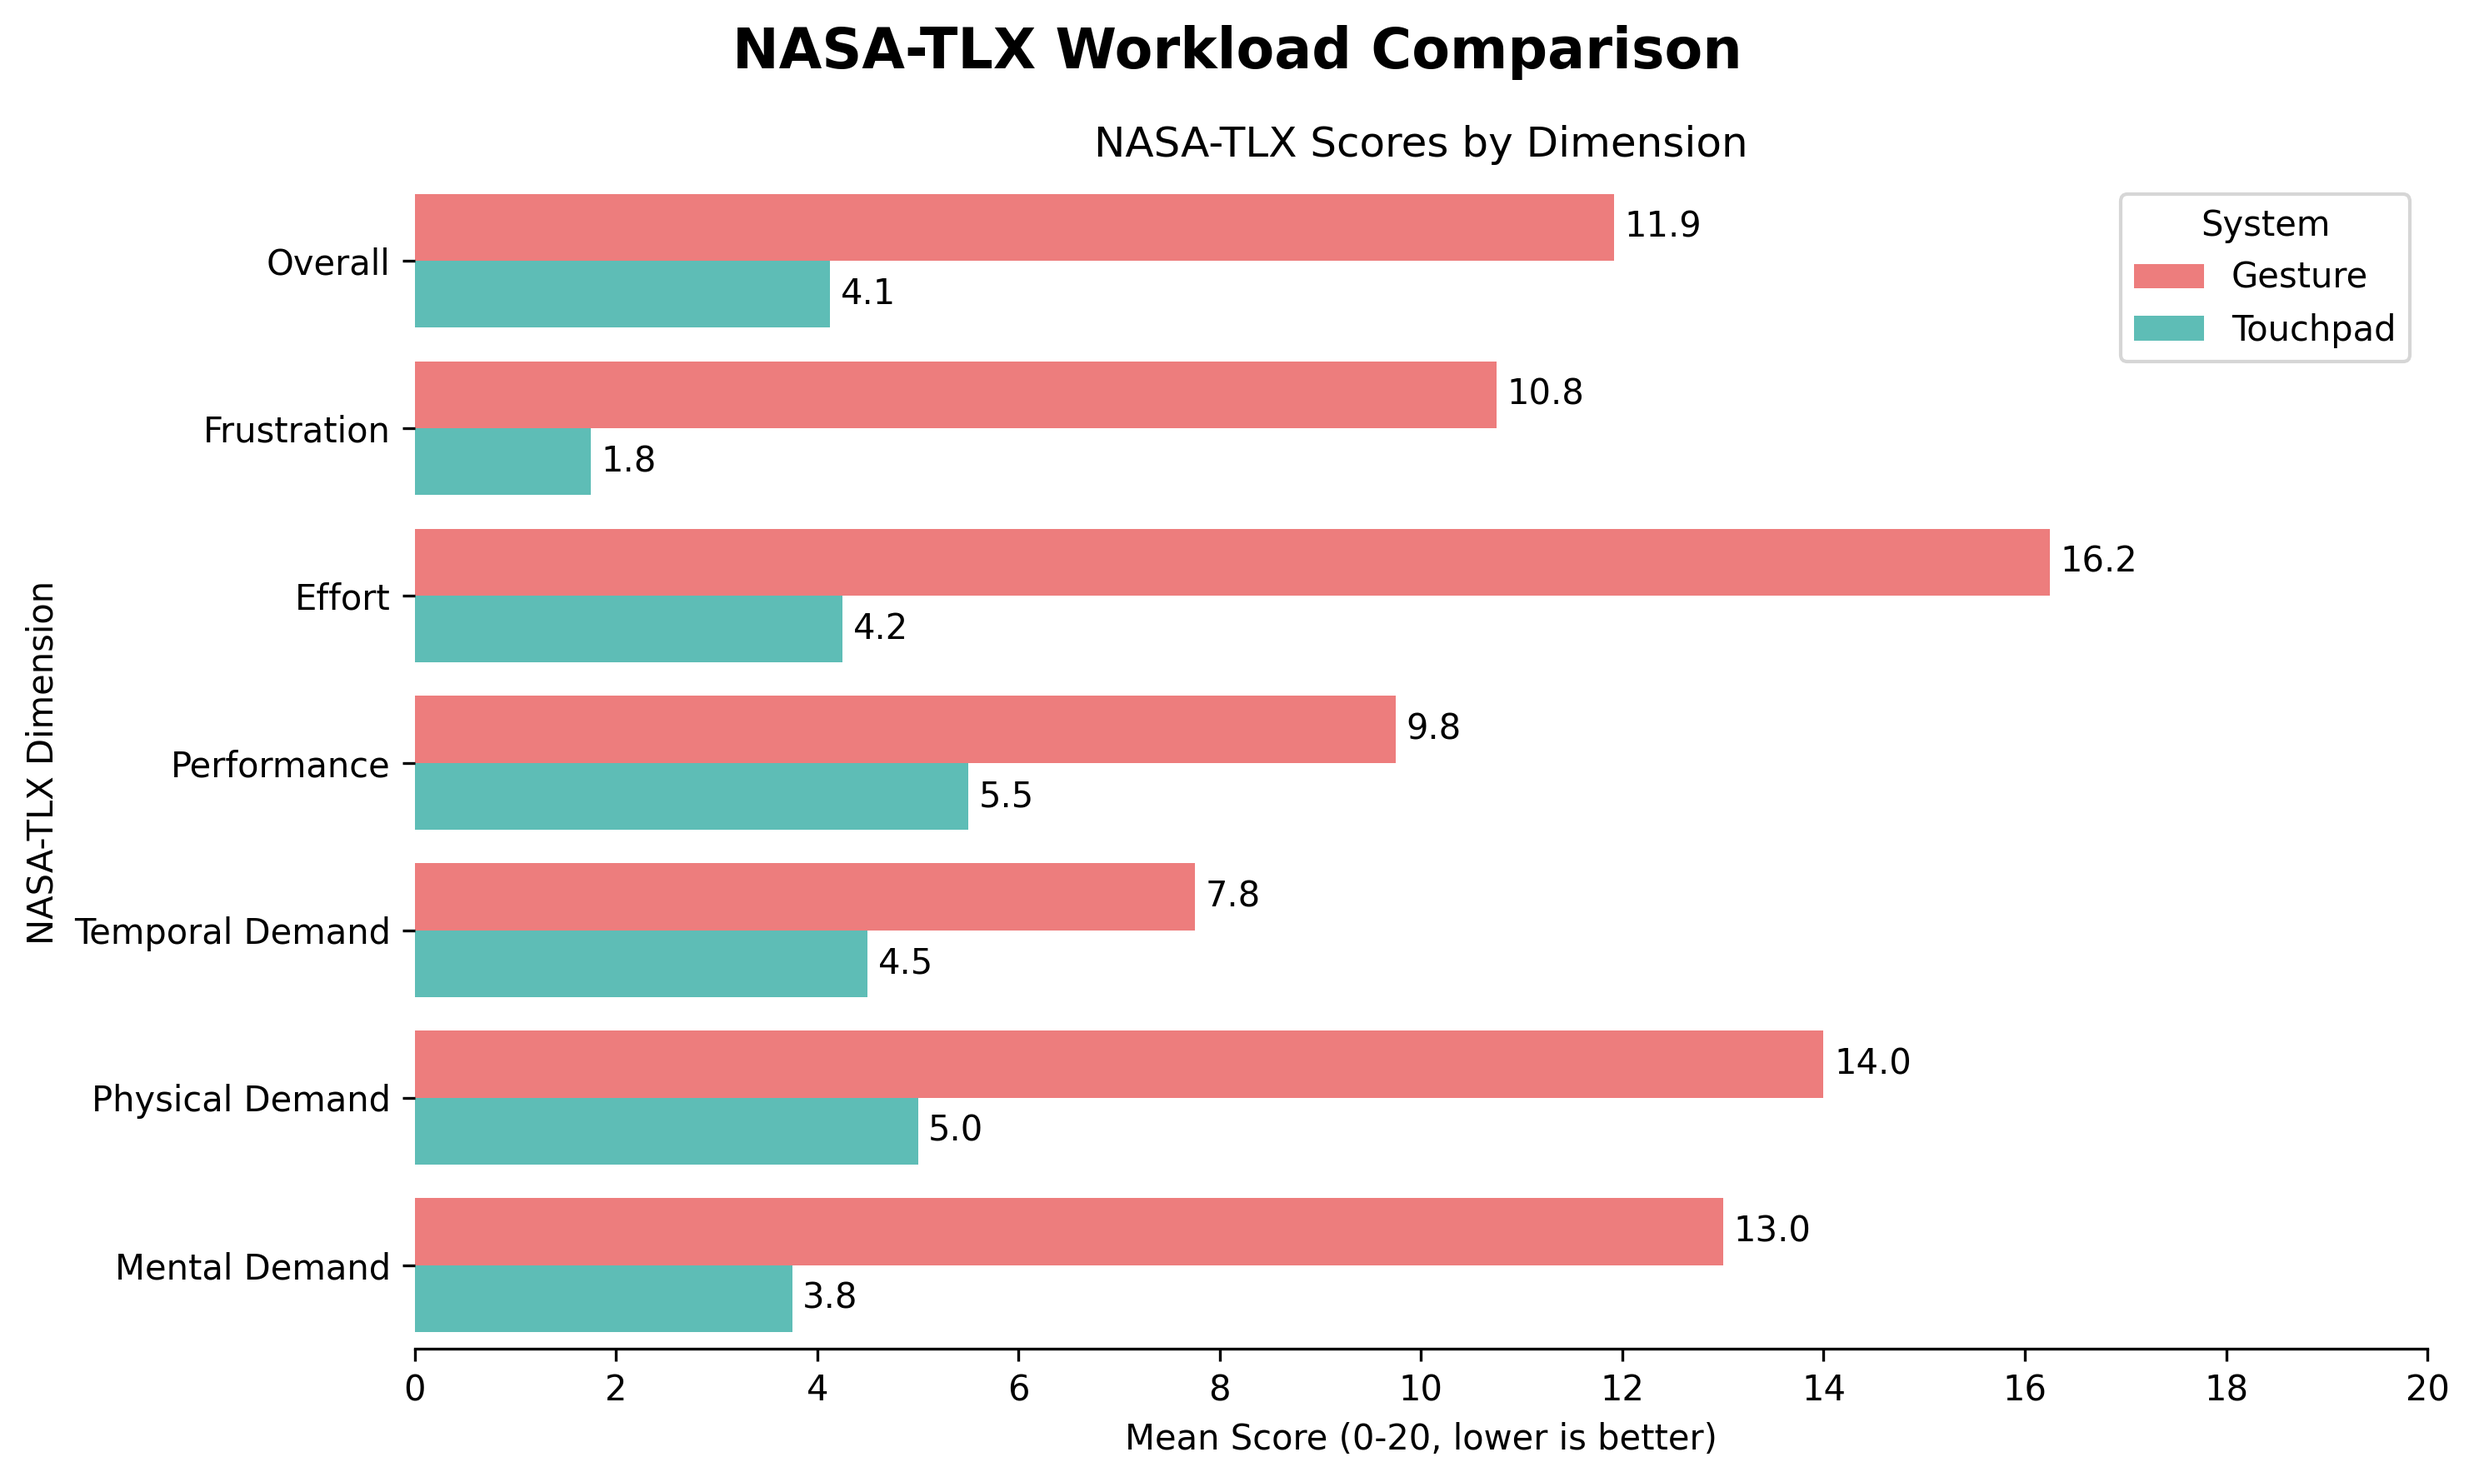
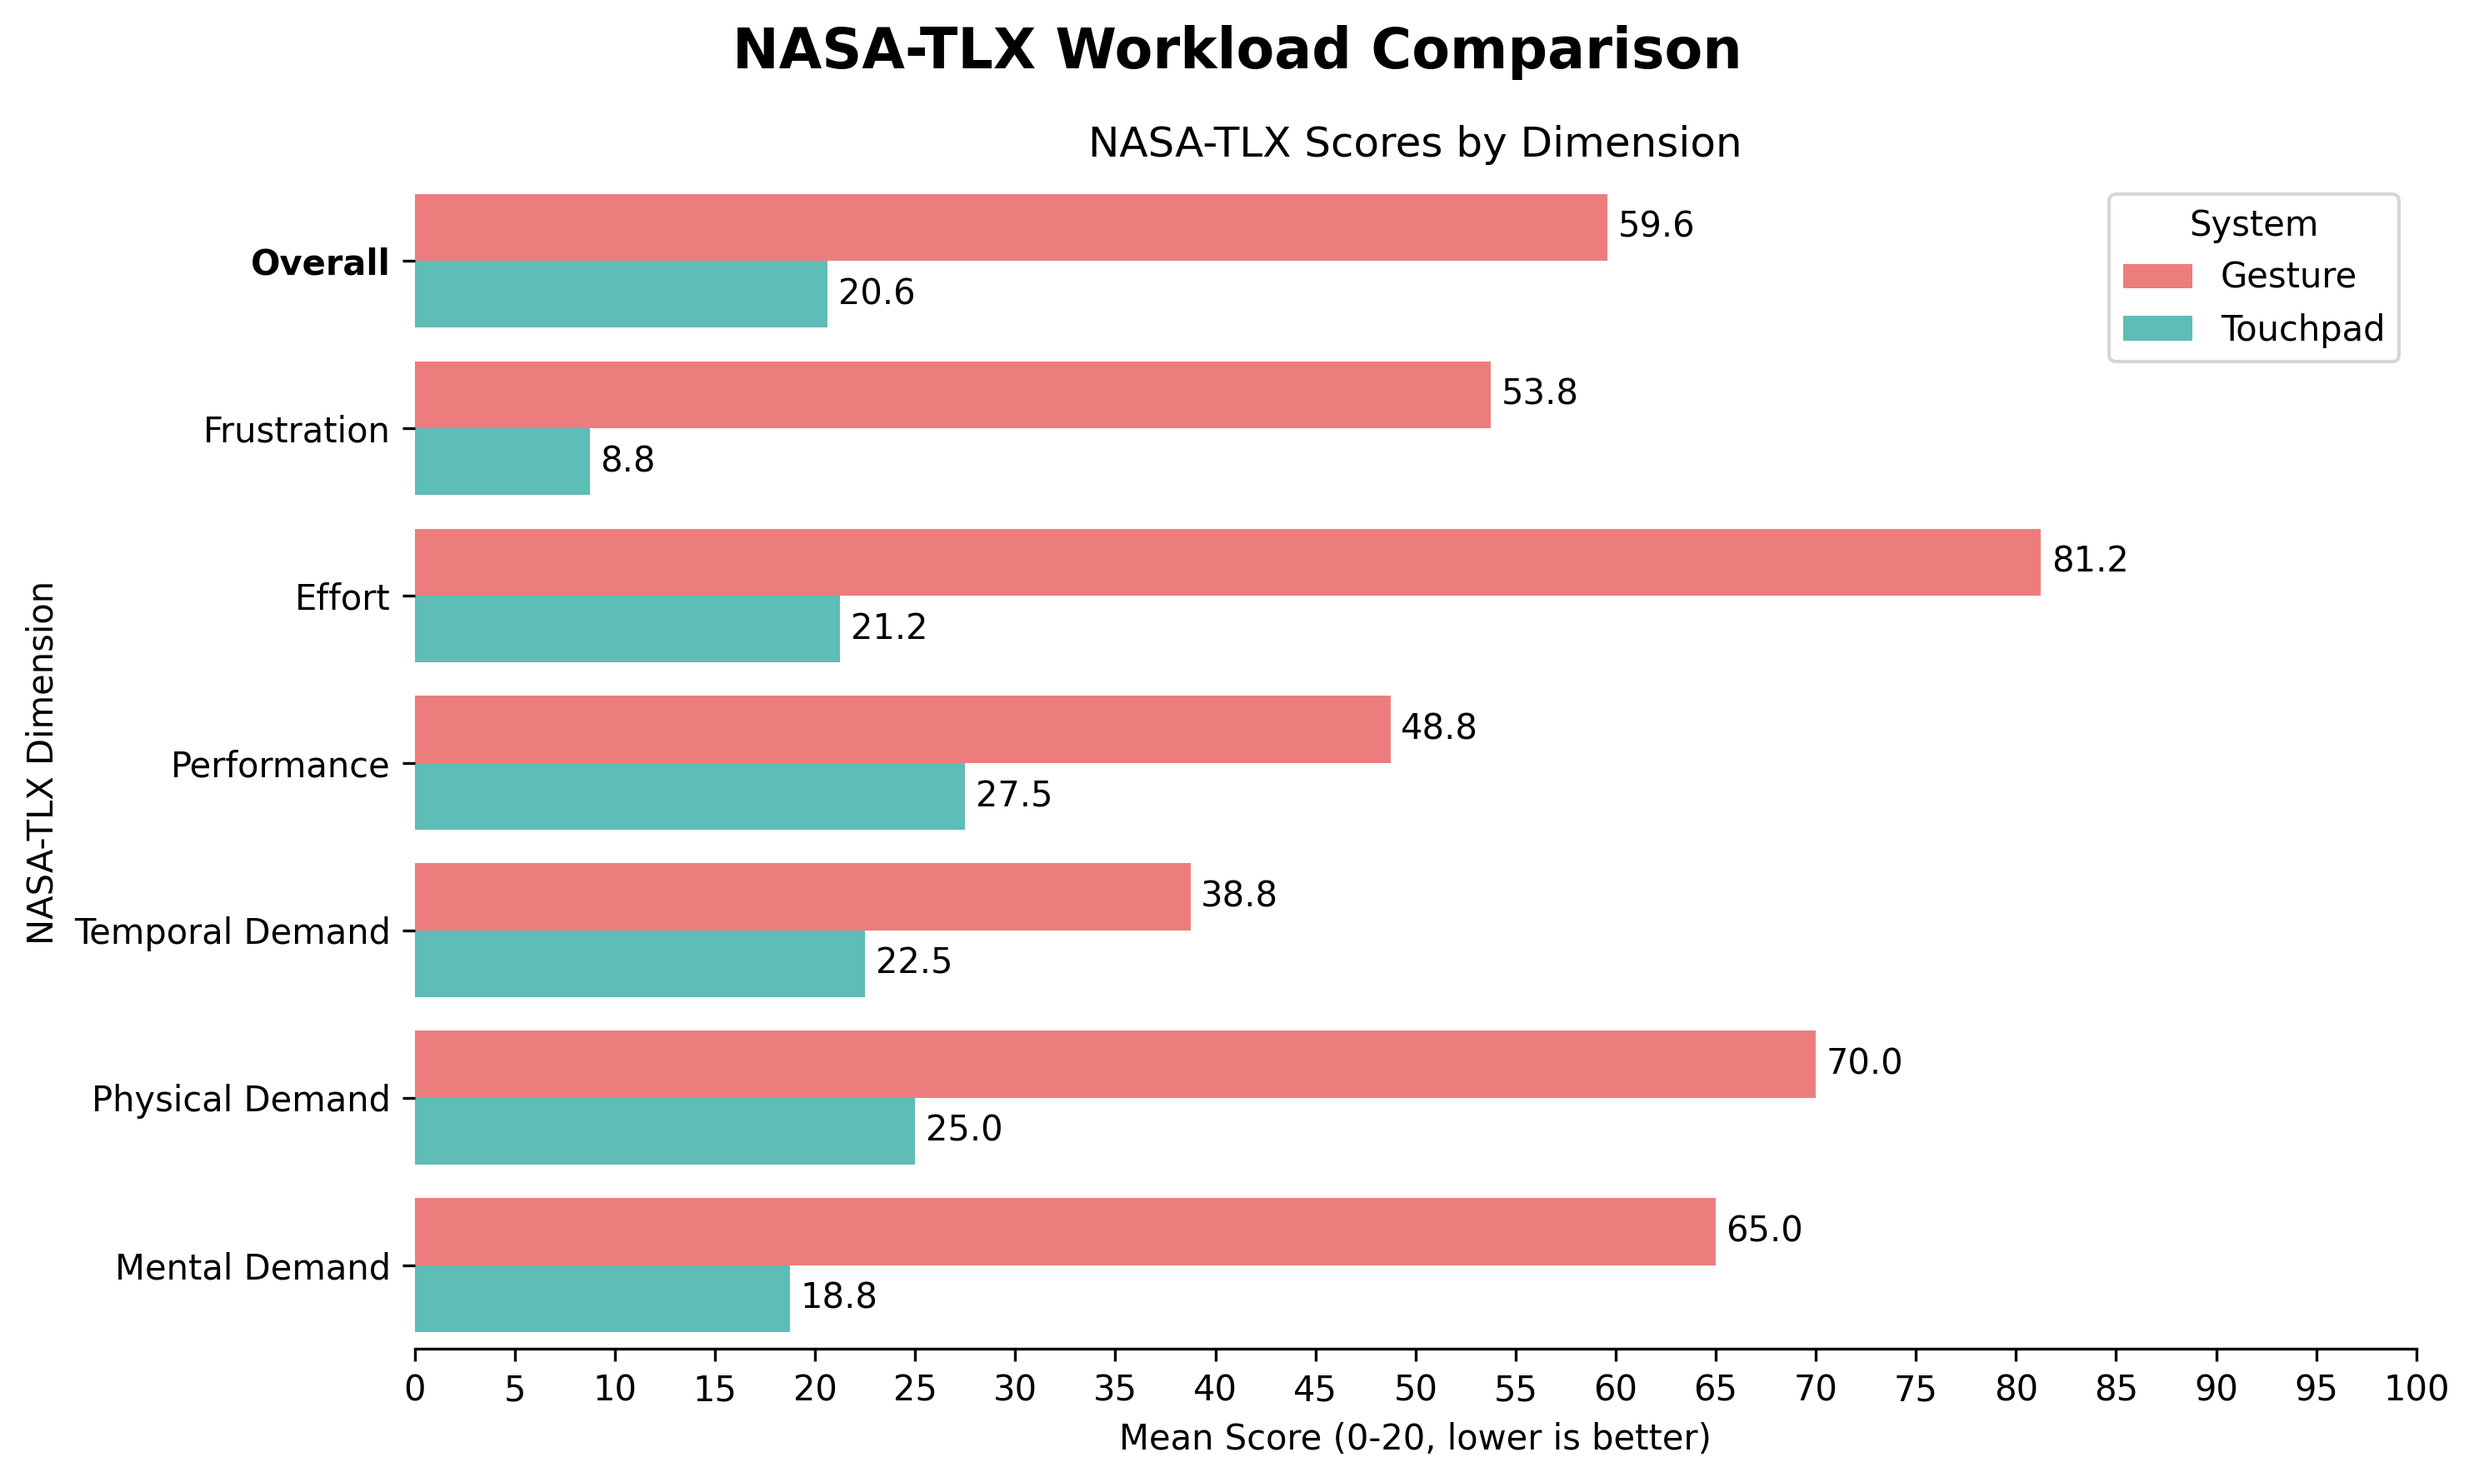
modify nasatlx plot

diff --git a/evaluation_analysis/qualitative_analysis.py b/evaluation_analysis/qualitative_analysis.py
@@ -241,10 +241,16 @@ def plot_nasa_tlx(df: pd.DataFrame):
         order=dim_order[::-1],
     )
 
+    # Bold the "Overall" label on y-axis
+    yticklabels = ax.get_yticklabels()
+    for label in yticklabels:
+        if "Overall" in label.get_text():
+            label.set_fontweight("bold")
+
     ax.set_ylabel("NASA-TLX Dimension")
     ax.set_xlabel("Mean Score (0-20, lower is better)")
     ax.set_title("NASA-TLX Scores by Dimension")
-    ax.set_xticks(np.arange(0, 21, 2))
+    ax.set_xticks(np.arange(0, 101, 5))
     ax.legend(title="System")
     sns.despine(ax=ax, left=True)
 

diff --git a/evaluation_analysis/preprocess.py b/evaluation_analysis/preprocess.py
@@ -72,6 +72,9 @@ def parse_questionnaire_sheet(sheet_url: str) -> pd.DataFrame:
                 ),
                 axis=1,
             )
+            merged_df[f"{sys}-{metric}"] = (
+                pd.to_numeric(merged_df[f"{sys}-{metric}"]) * 5
+            )
 
     # Drop the original s1/s2 columns and system1/system2 columns
     columns_to_drop = (
